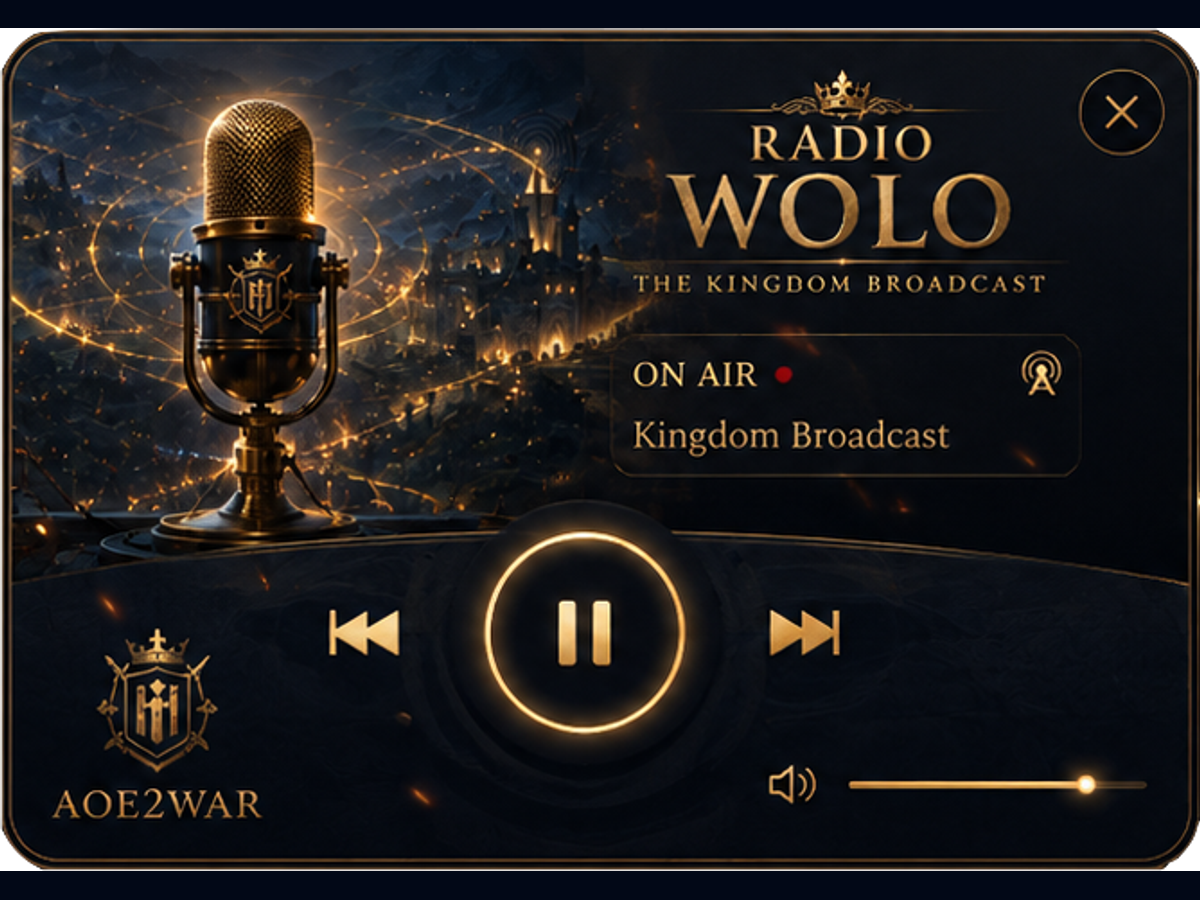
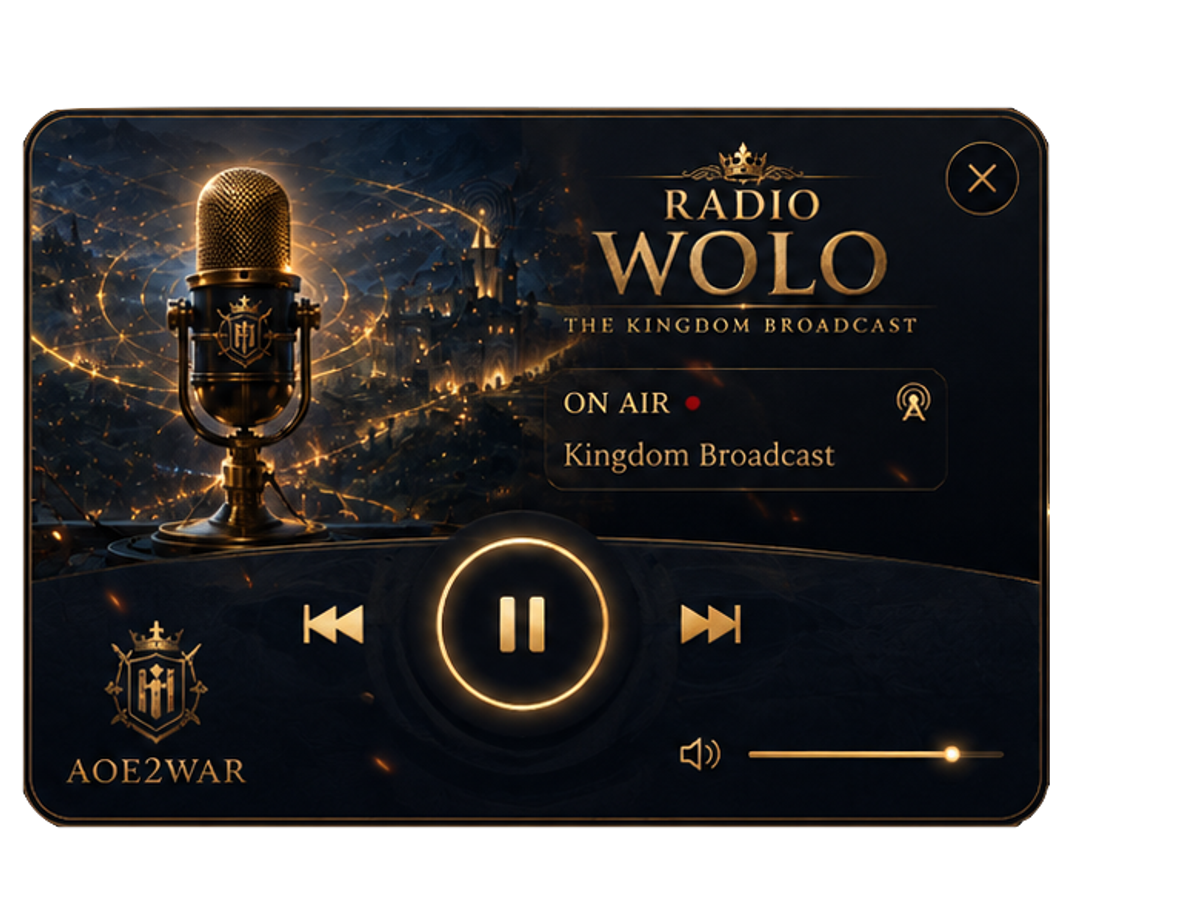
Add four Radio WOLO mini player faces

diff --git a/components/radio/RadioWoloGlobalPlayer.tsx b/components/radio/RadioWoloGlobalPlayer.tsx
@@ -25,7 +25,7 @@ const STORAGE_KEY =
   "aoe2war:radio-wolo-player-mode:v1";
 
 const THEME_STORAGE_KEY =
-  "aoe2war:radio-wolo-player-theme:v2";
+  "aoe2war:radio-wolo-player-theme:v3";
 
 const SKIN_STORAGE_KEY =
   "aoe2war:radio-wolo-player-skin:v1";
@@ -47,6 +47,18 @@ const PLAYER_SKINS = [
     label: "Mini II",
     kind: "image",
     src: "/radio-wolo/mini2.png",
+  },
+  {
+    id: "mini3",
+    label: "Mini III",
+    kind: "image",
+    src: "/radio-wolo/mini3.png",
+  },
+  {
+    id: "mini4",
+    label: "Mini IV",
+    kind: "image",
+    src: "/radio-wolo/mini4.png",
   },
 ] as const;
 
@@ -376,7 +388,13 @@ export default function RadioWoloGlobalPlayer() {
     PLAYER_THEMES.find(
       (entry) =>
         entry.id === themeId,
-    ) ?? PLAYER_THEMES[0];
+    ) ??
+    PLAYER_THEMES.find(
+      (entry) =>
+        entry.id ===
+        "imperial",
+    ) ??
+    PLAYER_THEMES[0];
 
 
   const [
@@ -703,7 +721,7 @@ export default function RadioWoloGlobalPlayer() {
           skinId
         }
         data-radio-wolo-art-face
-        className="fixed bottom-[calc(env(safe-area-inset-bottom)+5.8rem)] left-3 z-[169] aspect-[4/3] w-[min(18rem,calc(100vw-1.5rem))] overflow-hidden rounded-[1.15rem] border border-[#365b85]/70 bg-[#020817] shadow-[0_24px_72px_rgba(0,0,0,0.68),0_0_28px_rgba(24,73,132,0.14)] lg:bottom-4 lg:left-4"
+        className="fixed bottom-[calc(env(safe-area-inset-bottom)+5.8rem)] left-3 z-[169] aspect-[4/3] w-[min(19rem,calc(100vw-1.5rem))] overflow-hidden rounded-[1rem] bg-[#020817] shadow-[0_24px_72px_rgba(0,0,0,0.72),0_0_26px_rgba(20,67,124,0.16)] lg:bottom-4 lg:left-4"
         style={{
           backgroundImage:
             `url("${activeSkin.src}")`,
@@ -715,25 +733,26 @@ export default function RadioWoloGlobalPlayer() {
             "cover",
         }}
       >
+        <span
+          className="sr-only"
+          aria-live="polite"
+        >
+          Radio WOLO:
+          {" "}
+          {signalLabel}
+        </span>
+
+        {!isOnAir ? (
+          <div
+            aria-hidden="true"
+            className="pointer-events-none absolute inset-0 bg-[#020817]/20"
+          />
+        ) : null}
+
         <div
           aria-hidden="true"
-          className="pointer-events-none absolute inset-0 bg-[linear-gradient(180deg,rgba(2,8,23,0.02)_0%,rgba(2,8,23,0.00)_55%,rgba(2,8,23,0.28)_100%)]"
+          className="pointer-events-none absolute inset-0 ring-1 ring-inset ring-amber-400/18"
         />
-
-        <div className="absolute left-2 top-2 flex items-center gap-1.5 rounded-full border border-amber-300/20 bg-[#020817]/72 px-2 py-1 backdrop-blur-md">
-          <span
-            aria-hidden="true"
-            className={`h-1.5 w-1.5 rounded-full ${
-              isOnAir
-                ? "bg-amber-400 shadow-[0_0_8px_rgba(251,191,36,0.8)]"
-                : "bg-slate-500"
-            }`}
-          />
-
-          <span className="text-[7px] font-black uppercase tracking-[0.18em] text-amber-100/80">
-            {signalLabel}
-          </span>
-        </div>
 
         <button
           type="button"
@@ -742,10 +761,12 @@ export default function RadioWoloGlobalPlayer() {
               "dormant",
             )
           }
-          className="absolute right-2 top-2 grid h-7 w-7 place-items-center rounded-full border border-amber-300/22 bg-[#020817]/76 text-amber-200/75 backdrop-blur-md transition hover:border-amber-300/45 hover:text-amber-100"
+          className="absolute right-[2%] top-[2%] h-[15%] w-[14%] rounded-full bg-transparent text-transparent focus-visible:outline-none focus-visible:ring-2 focus-visible:ring-amber-300/80"
           aria-label="Close Radio WOLO"
         >
-          <X className="h-3.5 w-3.5" />
+          <span className="sr-only">
+            Close
+          </span>
         </button>
 
         <button
@@ -756,7 +777,7 @@ export default function RadioWoloGlobalPlayer() {
           disabled={
             !isOnAir
           }
-          className="absolute left-1/2 top-[68%] grid h-12 w-12 -translate-x-1/2 -translate-y-1/2 place-items-center rounded-full border border-amber-300/45 bg-[#06152b]/88 text-amber-100 shadow-[0_0_22px_rgba(217,160,45,0.22),inset_0_1px_0_rgba(255,255,255,0.08)] backdrop-blur-sm transition hover:border-amber-200/70 hover:bg-[#0a2141]/94 disabled:cursor-default disabled:opacity-35"
+          className="absolute left-[39%] top-[54%] h-[31%] w-[22%] rounded-full bg-transparent text-transparent focus-visible:outline-none focus-visible:ring-2 focus-visible:ring-amber-300/80 disabled:cursor-default"
           aria-label={
             isListening &&
             !playbackBlocked
@@ -764,23 +785,13 @@ export default function RadioWoloGlobalPlayer() {
               : "Listen to Radio WOLO"
           }
         >
-          {isListening &&
-          !playbackBlocked ? (
-            <Pause className="h-5 w-5" />
-          ) : (
-            <Play className="ml-0.5 h-5 w-5" />
-          )}
+          <span className="sr-only">
+            {isListening &&
+            !playbackBlocked
+              ? "Pause"
+              : "Listen"}
+          </span>
         </button>
-
-        <div className="absolute bottom-2 left-2 max-w-[56%] rounded-lg border border-white/[0.07] bg-[#020817]/72 px-2 py-1.5 backdrop-blur-md">
-          <div className="truncate text-[8px] font-black uppercase tracking-[0.16em] text-amber-300/70">
-            Radio WOLO
-          </div>
-
-          <div className="mt-0.5 truncate text-[9px] font-semibold text-white/86">
-            {displayTitle}
-          </div>
-        </div>
 
         <button
           type="button"
@@ -791,10 +802,12 @@ export default function RadioWoloGlobalPlayer() {
               "expanded",
             );
           }}
-          className="absolute bottom-2 right-2 rounded-lg border border-amber-300/22 bg-[#020817]/78 px-2.5 py-1.5 text-[8px] font-black uppercase tracking-[0.18em] text-amber-200/80 backdrop-blur-md transition hover:border-amber-300/45 hover:text-amber-100"
+          className="absolute bottom-[2%] right-[2%] h-[18%] w-[31%] rounded-lg bg-transparent text-transparent focus-visible:outline-none focus-visible:ring-2 focus-visible:ring-amber-300/80"
           aria-label="More Radio WOLO controls"
         >
-          More
+          <span className="sr-only">
+            More
+          </span>
         </button>
       </section>
     );
@@ -960,7 +973,7 @@ export default function RadioWoloGlobalPlayer() {
               </div>
             </div>
 
-            <div className="mt-2 grid grid-cols-3 gap-1.5">
+            <div className="mt-2 grid grid-cols-5 gap-1.5">
               {PLAYER_SKINS.map(
                 (skin) => {
                   const selected =
@@ -971,11 +984,15 @@ export default function RadioWoloGlobalPlayer() {
                     <button
                       key={skin.id}
                       type="button"
-                      onClick={() =>
+                      onClick={() => {
                         setStoredSkin(
                           skin.id,
-                        )
-                      }
+                        );
+
+                        setStoredMode(
+                          "compact",
+                        );
+                      }}
                       className={`relative h-12 overflow-hidden rounded-lg border text-[9px] font-bold uppercase tracking-[0.12em] transition ${
                         selected
                           ? "border-amber-400/45 bg-amber-300/[0.10] text-amber-100"
